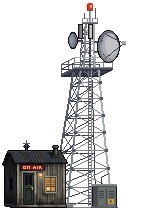
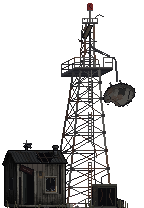
M5: Broadcast tower T1 + T2 (all five tiers done), sw v423

Changed region(s): [[0.0278, 0.0, 0.9444, 1.0]]

diff --git a/sw.js b/sw.js
@@ -15,7 +15,7 @@
  * edited CSS/JS) so returning users pick up the update instead of serving a
  * stale cached shell forever — the whole point of a version string here.
  */
-const CACHE_NAME = 'deadline-shell-v420';
+const CACHE_NAME = 'deadline-shell-v423';
 
 const APP_SHELL = [
     './',

diff --git a/Assets/Village/_source/broadcast-3q/scripts/bt208.py b/Assets/Village/_source/broadcast-3q/scripts/bt208.py
@@ -14,6 +14,21 @@ CX=90; PH=138; TOP=184
 def make(soldier=False, steel_only=False, station_only=False, tier=3, figure=None, front_rail=True, bands=False):
     im=Image.new('RGBA',(W,H),(0,0,0,0)); d=ImageDraw.Draw(im); P=im.load(); rnd=random.Random(11)
     L=lambda a,b,c,w=1: d.line([a,b],fill=c+(255,),width=w)
+    def dirty(px,box,seed,tint=(0.80,0.75,0.68),nblob=4,nrun=3):
+        # grime on one object (T2): a brown-grey tint, a few solid stains (dirt / rust, alternating) and short runs below them. No specks.
+        rr=random.Random(seed); x0_,y0_,x1_,y1_=box; ok=lambda x,y: 0<=x<W and 0<=y<H and px[x,y][3]==255 and sum(px[x,y][:3])>110
+        mix=lambda c,t,k: tuple(int(c[i]+(t[i]-c[i])*k) for i in range(3))+(255,)
+        for y in range(y0_,y1_+1):
+            for x in range(x0_,x1_+1):
+                if ok(x,y): c=px[x,y]; px[x,y]=(int(c[0]*tint[0]),int(c[1]*tint[1]),int(c[2]*tint[2]),255)
+        for i in range(nblob):
+            bx_,by_=rr.randint(x0_+1,x1_-1),rr.randint(y0_+1,y1_-1); br_=rr.randint(1,3); tone=(74,64,58) if i%2==0 else (120,82,62)
+            for y in range(by_-br_,by_+br_+1):
+                for x in range(bx_-br_,bx_+br_+1):
+                    if x0_<=x<=x1_ and y0_<=y<=y1_ and ok(x,y) and (x-bx_)**2+(y-by_)**2<=br_*br_: px[x,y]=mix(px[x,y],tone,0.55)
+            if i<nrun:
+                for k in range(br_+1,br_+rr.randint(3,6)):
+                    if y0_<=by_+k<=y1_ and ok(bx_,by_+k): px[bx_,by_+k]=mix(px[bx_,by_+k],(64,56,54),0.5)
     # painted bands (T5): dull aviation red / off-white, alternating by section, counted from the TOP so the top band is red
     RED=((158,76,62),(124,58,52),(84,44,46),(58,34,42)); WHT=((192,190,182),(150,150,148),(100,102,112),(64,66,78)); GALV=(ST_L,ST_M,ST_D,ST_DD)
     def pal(i,n,off=0):
@@ -56,8 +71,16 @@ def make(soldier=False, steel_only=False, station_only=False, tier=3, figure=Non
         # ---------- base lattice ----------
         fl,fr,bl,br,secs=lattice(0,PH,44,18,8,off=1)
         # ladder up the front face to the platform hatch
-        for hh in range(3,PH,3): d.line([CX-2,Y(hh),CX+1,Y(hh)],fill=ST_D+(255,))
-        d.line([CX-2,Y(PH),CX-2,Y(2)],fill=(100,104,116,255)); d.line([CX+1,Y(PH),CX+1,Y(2)],fill=(140,144,154,255))
+        LGAP=((46,64),(96,104)) if tier==1 else ()                  # T1: two stretches of the ladder have rotted away
+        ingap=lambda hh: any(a_<=hh<=b_ for a_,b_ in LGAP)
+        for hh in range(3,PH,3):
+            if not ingap(hh): d.line([CX-2,Y(hh),CX+1,Y(hh)],fill=ST_D+(255,))
+        segs=[]; top_=PH
+        for a_,b_ in sorted(LGAP,reverse=True): segs.append((top_,b_+1)); top_=a_-1
+        segs.append((top_,2))
+        for h1_,h0_ in segs:
+            d.line([CX-2,Y(h1_),CX-2,Y(h0_)],fill=(100,104,116,255)); d.line([CX+1,Y(h1_),CX+1,Y(h0_)],fill=(140,144,154,255))
+        if tier==1: d.line([(CX+1,Y(64)),(CX+5,Y(58)),(CX+6,Y(50))],fill=(100,104,116,255))      # one rail bent out and hanging
         legs(fl,fr,secs,2,off=1)
         for a,b in secs[1:]:                                    # gusset plates at the joints
             for x in (fl(a),fr(a)): d.rectangle([x-1,Y(a)-1,x+1,Y(a)+1],fill=ST_D+(255,))
@@ -102,8 +125,23 @@ def make(soldier=False, steel_only=False, station_only=False, tier=3, figure=Non
             im.alpha_composite(figure); d=ImageDraw.Draw(im); P=im.load()
         if front_rail:
             d.rectangle([dl,pf,dr,pf+2],fill=ST_D+(255,)); d.line([dl,pf,dr,pf],fill=ST_M+(255,)); d.line([dl,pf+2,dr,pf+2],fill=ST_DD+(255,))   # front fascia
-            for x in (dl,dl+9,dl+19,dl+29,dr): d.line([x,pf-RH,x,pf-1],fill=ST_M+(255,))
-            d.line([dl,pf-RH,dr,pf-RH],fill=ST_L+(255,)); d.line([dl,pf-RH+5,dr,pf-RH+5],fill=ST_M+(255,))
+            for x in ((dl,dl+9,dl+19,dl+29,dr) if tier>=2 else (dl,dl+19)): d.line([x,pf-RH,x,pf-1],fill=ST_M+(255,))
+            if tier==1:
+                d.line([dl,pf-RH,dl+19,pf-RH],fill=ST_L+(255,)); d.line([dl,pf-RH+5,dl+9,pf-RH+5],fill=ST_M+(255,))        # what is left of the rail
+                for x in (dl+29,dr): d.line([x,pf-RH,x,pf-1],fill=ST_M+(255,))                                               # the right-end section still stands
+                d.line([dl+29,pf-RH,dr,pf-RH],fill=ST_L+(255,)); d.line([dl+31,pf-RH+5,dr,pf-RH+5],fill=ST_M+(255,))
+                d.line([(dl+19,pf-RH),(dl+24,pf-RH+3),(dl+26,pf+6),(dl+26,pf+13)],fill=ST_M+(255,))                          # top rail torn loose, hanging below the deck
+            elif tier==2:
+                for (xa,xb_) in ((dl,dl+19),(dl+29,dr)):
+                    d.line([xa,pf-RH,xb_,pf-RH],fill=ST_L+(255,)); d.line([xa,pf-RH+5,xb_,pf-RH+5],fill=ST_M+(255,))
+                d.line([(dl+19,pf-RH+1),(dl+22,pf-RH+3),(dl+26,pf-RH+3),(dl+29,pf-RH+1)],fill=(150,128,92,255))          # rope across the gap
+                TP=(72,86,102); TPd=(52,64,80); TPl=(98,112,126)                                                          # tarp shelter, roped to the rail
+                d.polygon([(dl-1,pf-RH-2),(dl+13,pf-RH-3),(dl+15,pf-RH+4),(dl+14,pf+1),(dl+1,pf+2),(dl-2,pf-3)],fill=OUT+(255,))
+                d.polygon([(dl,pf-RH-1),(dl+12,pf-RH-2),(dl+14,pf-RH+4),(dl+13,pf),(dl+1,pf+1),(dl-1,pf-3)],fill=TP+(255,))
+                d.line([(dl+3,pf-RH),(dl+2,pf)],fill=TPd+(255,)); d.line([(dl+8,pf-RH-1),(dl+9,pf)],fill=TPd+(255,)); d.line([(dl+5,pf-RH),(dl+6,pf-4)],fill=TPl+(255,)); d.line([(dl+11,pf-RH),(dl+12,pf-5)],fill=TPl+(255,))
+                d.line([(dl,pf-RH+3),(dl+13,pf-RH+2)],fill=(150,128,92,255))
+            else:
+                d.line([dl,pf-RH,dr,pf-RH],fill=ST_L+(255,)); d.line([dl,pf-RH+5,dr,pf-RH+5],fill=ST_M+(255,))
         if tier>=4 and front_rail:                                  # floodlight on the platform's right end, at railing height just under the big dish, tilted 45 degrees outward (Jeremy 2026-11-24)
             ux,uy=dr+4,pf-7                                         # top corner of the turned housing
             d.line([dr,pf-5,ux-2,pf-5],fill=ST_D+(255,)); d.line([dr,pf-4,ux-3,pf-4],fill=ST_DD+(255,))   # bracket off the end post
@@ -115,10 +153,20 @@ def make(soldier=False, steel_only=False, station_only=False, tier=3, figure=Non
         for x in (CX-8,CX-3,CX+2,CX+7): d.line([x,ty-5,x,ty-2],fill=ST_M+(255,))
         d.line([CX-8,ty-5,CX+7,ty-5],fill=ST_L+(255,))
         d.rectangle([CX-1,Y(TOP+12),CX,ty-2],fill=ST_M+(255,)); d.line([CX,Y(TOP+12),CX,ty-2],fill=ST_L+(255,))
-        d.line([CX+5,Y(TOP+15),CX+5,ty-5],fill=ST_D+(255,)); d.line([CX-6,Y(TOP+10),CX-6,ty-5],fill=ST_D+(255,))
+        if tier==1:
+            d.line([CX+5,Y(TOP+6),CX+5,ty-5],fill=ST_D+(255,)); d.line([(CX+5,Y(TOP+6)),(CX+9,Y(TOP+9)),(CX+13,Y(TOP+7))],fill=ST_D+(255,))     # bent over
+            d.line([CX-6,Y(TOP+4),CX-6,ty-5],fill=ST_D+(255,))                                                                                   # snapped short
+        else:
+            d.line([CX+5,Y(TOP+15),CX+5,ty-5],fill=ST_D+(255,)); d.line([CX-6,Y(TOP+10),CX-6,ty-5],fill=ST_D+(255,))
         d.rectangle([CX-3,Y(TOP+13),CX+2,Y(TOP+13)],fill=ST_D+(255,))
         d.rectangle([CX-3,Y(TOP+19),CX+2,Y(TOP+14)],fill=(206,58,46,255)); d.rectangle([CX-2,Y(TOP+20),CX+1,Y(TOP+20)],fill=(206,58,46,255))
         d.rectangle([CX-3,Y(TOP+19),CX-3,Y(TOP+14)],fill=(146,38,36,255)); d.rectangle([CX,Y(TOP+18),CX+1,Y(TOP+16)],fill=(255,150,116,255)); d.point((CX+1,Y(TOP+18)),fill=(255,210,180,255))
+        if tier==1:                                                 # dead: a dark red lens, cracked, no hot spot
+            d.rectangle([CX-3,Y(TOP+19),CX+2,Y(TOP+14)],fill=(112,38,38,255)); d.rectangle([CX-2,Y(TOP+20),CX+1,Y(TOP+20)],fill=(112,38,38,255))
+            d.rectangle([CX-3,Y(TOP+19),CX-3,Y(TOP+14)],fill=(74,26,30,255)); d.line([(CX,Y(TOP+19)),(CX-1,Y(TOP+17)),(CX+1,Y(TOP+15))],fill=(46,18,24,255))
+        if tier==2:                                                 # running weak: a dull lens with one faint hot spot (stays ON at T2: Jeremy, it is the tower's signature)
+            d.rectangle([CX-3,Y(TOP+19),CX+2,Y(TOP+14)],fill=(150,46,42,255)); d.rectangle([CX-2,Y(TOP+20),CX+1,Y(TOP+20)],fill=(150,46,42,255))
+            d.rectangle([CX-3,Y(TOP+19),CX-3,Y(TOP+14)],fill=(104,32,34,255)); d.rectangle([CX,Y(TOP+17),CX+1,Y(TOP+16)],fill=(214,96,76,255))
         if tier>=5:                                                 # a pair of loudspeaker horns off the cap platform's left side, mouths facing left
             d.line([CX-13,ty-4,CX-8,ty-4],fill=ST_D+(255,)); d.line([CX-13,ty-10,CX-13,ty+4],fill=ST_DD+(255,))     # arm + yoke
             for cyh in (ty-8,ty+1):
@@ -128,25 +176,61 @@ def make(soldier=False, steel_only=False, station_only=False, tier=3, figure=Non
                 d.rectangle([mx,cyh-3,mx+1,cyh+3],fill=(182,186,194,255)); d.rectangle([mx,cyh-2,mx,cyh+2],fill=(58,60,72,255)); d.point((mx,cyh),fill=(34,34,44,255))
         # ---------- panel antennas ----------
         PA=(202,196,176); PAD=(134,132,126); hp=TOP-14
-        for x,c,cs in ((int(ufl(hp))-6,PAD,(100,100,98)),(CX-1,PA,PAD)):
+        if tier==1:
+            px0,py0=CX-1,Y(hp+12)
+            d.polygon([(px0-1,py0-1),(px0+3,py0),(px0-3,py0+13),(px0-7,py0+12)],fill=OUT+(255,))
+            d.polygon([(px0,py0),(px0+2,py0+1),(px0-4,py0+12),(px0-6,py0+11)],fill=(150,144,130,255)); d.line([(px0,py0),(px0-6,py0+11)],fill=(104,102,98,255))
+            dirty(P,(px0-7,py0,px0+3,py0+13),31,tint=(0.70,0.66,0.58),nblob=4,nrun=2)
+        for x,c,cs in (() if tier==1 else ((int(ufl(hp))-6,PAD,(100,100,98)),(CX-1,PA,PAD)) if tier>=3 else ((CX-1,(168,162,146),(118,116,110)),)):
             d.rectangle([x-1,Y(hp+13),x+3,Y(hp-1)],fill=OUT+(255,)); d.rectangle([x,Y(hp+12),x+2,Y(hp)],fill=c+(255,)); d.line([x,Y(hp+12),x,Y(hp)],fill=cs+(255,))
+            if tier==2: dirty(P,(x,Y(hp+12),x+2,Y(hp)),31,tint=(0.74,0.70,0.62),nblob=3,nrun=2)
         # ---------- BIG dish (front-right) ----------
         dh=TOP-23; ax_=int(ufr(dh)); cxd=ax_+14; ry=15; rx=10
-        d.line([ax_,Y(dh+5),cxd-2,Y(dh+5)],fill=ST_D+(255,),width=2); d.line([ax_,Y(dh-5),cxd-2,Y(dh-5)],fill=ST_D+(255,),width=2); d.line([ax_+3,Y(dh+5),ax_+3,Y(dh-5)],fill=ST_DD+(255,))
-        d.ellipse([cxd-rx-1,Y(dh+ry+1),cxd+rx+1,Y(dh-ry-1)],fill=OUT+(255,))
-        d.ellipse([cxd-rx,Y(dh+ry),cxd+rx,Y(dh-ry)],fill=(112,116,126,255))          # rim / back edge
-        d.ellipse([cxd-rx+2,Y(dh+ry-1),cxd+rx,Y(dh-ry+1)],fill=(146,150,158,255))     # bowl, shade side
-        d.ellipse([cxd-rx+4,Y(dh+ry-2),cxd+rx,Y(dh-ry+3)],fill=(168,172,178,255))
-        d.ellipse([cxd-rx+7,Y(dh+ry-4),cxd+rx-1,Y(dh-ry+7)],fill=(192,194,198,255))   # lit part
-        d.arc([cxd-rx+2,Y(dh+ry-1),cxd+rx,Y(dh-ry+1)],190,350,fill=(96,100,112,255))
+        lay=Image.new('RGBA',(W,H),(0,0,0,0)); q=ImageDraw.Draw(lay)
+        q.line([ax_,Y(dh+5),cxd-2,Y(dh+5)],fill=ST_D+(255,),width=2); q.line([ax_,Y(dh-5),cxd-2,Y(dh-5)],fill=ST_D+(255,),width=2); q.line([ax_+3,Y(dh+5),ax_+3,Y(dh-5)],fill=ST_DD+(255,))
+        q.ellipse([cxd-rx-1,Y(dh+ry+1),cxd+rx+1,Y(dh-ry-1)],fill=OUT+(255,))
+        q.ellipse([cxd-rx,Y(dh+ry),cxd+rx,Y(dh-ry)],fill=(112,116,126,255))          # rim / back edge
+        q.ellipse([cxd-rx+2,Y(dh+ry-1),cxd+rx,Y(dh-ry+1)],fill=(146,150,158,255))     # bowl, shade side
+        q.ellipse([cxd-rx+4,Y(dh+ry-2),cxd+rx,Y(dh-ry+3)],fill=(168,172,178,255))
+        q.ellipse([cxd-rx+7,Y(dh+ry-4),cxd+rx-1,Y(dh-ry+7)],fill=(192,194,198,255))   # lit part
+        q.arc([cxd-rx+2,Y(dh+ry-1),cxd+rx,Y(dh-ry+1)],190,350,fill=(96,100,112,255))
         for (ex,ey) in ((cxd-2,Y(dh+ry-3)),(cxd-3,Y(dh-ry+3)),(cxd+rx-2,Y(dh-3))):
-            d.line([ex,ey,cxd+rx+5,Y(dh+3)],fill=ST_DD+(255,))
-        d.rectangle([cxd+rx+4,Y(dh+5),cxd+rx+7,Y(dh+2)],fill=ST_L+(255,)); d.rectangle([cxd+rx+4,Y(dh+2),cxd+rx+7,Y(dh+2)],fill=ST_D+(255,))
-        for q in ((cxd-4,Y(dh-9)),(cxd-3,Y(dh-10)),(cxd-5,Y(dh-8)),(cxd+1,Y(dh-12)),(cxd-6,Y(dh+6))): d.point(q,fill=RUST+(255,))
+            q.line([ex,ey,cxd+rx+5,Y(dh+3)],fill=ST_DD+(255,))
+        q.rectangle([cxd+rx+4,Y(dh+5),cxd+rx+7,Y(dh+2)],fill=ST_L+(255,)); q.rectangle([cxd+rx+4,Y(dh+2),cxd+rx+7,Y(dh+2)],fill=ST_D+(255,))
+        for pt0 in ((cxd-4,Y(dh-9)),(cxd-3,Y(dh-10)),(cxd-5,Y(dh-8)),(cxd+1,Y(dh-12)),(cxd-6,Y(dh+6))): q.point(pt0,fill=RUST+(255,))
+        if tier==1:
+            q.rectangle([cxd+rx+3,Y(dh+6),cxd+rx+8,Y(dh+1)],fill=(0,0,0,0))                                   # feed horn torn off
+            q.polygon([(cxd+rx+2,Y(dh-4)),(cxd+4,Y(dh-9)),(cxd+6,Y(dh-ry-2)),(cxd+rx+2,Y(dh-ry-2))],fill=(0,0,0,0))   # a bite out of the lower rim
+            q.line([(cxd+4,Y(dh-9)),(cxd+6,Y(dh-ry+1))],fill=OUT+(255,)); q.line([(cxd+4,Y(dh-9)),(cxd+rx,Y(dh-5))],fill=OUT+(255,))
+            q.polygon([(cxd-5,Y(dh+8)),(cxd+1,Y(dh+5)),(cxd-1,Y(dh-1)),(cxd-6,Y(dh+1))],fill=(84,86,96,255)); q.line([(cxd-5,Y(dh+8)),(cxd-6,Y(dh+1))],fill=(56,58,70,255))   # dent
+            dirty(lay.load(),(cxd-rx,Y(dh+ry),cxd+rx,Y(dh-ry)),37,tint=(0.70,0.66,0.60),nblob=13,nrun=9)
+            # torn off its mount (Jeremy 2026-11-24): it hangs over the right side of the platform, in the air, from a thick black
+            # cable that runs from the middle of the mast over the hand rail. Turned 65 degrees about its bracket, then moved to the hang point.
+            HANG=(dr+4,pf+14)                                         # well below the deck (Jeremy: it may hang behind the school, players see it in the building window)
+            lay=lay.rotate(-75,resample=Image.NEAREST,center=(ax_,Y(dh)),translate=(HANG[0]-ax_,HANG[1]-Y(dh)))
+        if tier==2:                                                 # patched with a scrap sheet, rust runs, and hanging about 12 degrees off true
+            q.polygon([(cxd-6,Y(dh+4)),(cxd+1,Y(dh+6)),(cxd+2,Y(dh-2)),(cxd-5,Y(dh-3))],fill=(120,112,104,255)); q.line([(cxd-6,Y(dh+4)),(cxd+1,Y(dh+6))],fill=(150,142,130,255))
+            for pt in ((cxd-5,Y(dh+3)),(cxd+1,Y(dh+5)),(cxd+1,Y(dh-1)),(cxd-4,Y(dh-2))): q.point(pt,fill=(60,56,58,255))
+            for (rx_,ry_,ln) in ((cxd-2,Y(dh+12),3),(cxd+5,Y(dh+1),2),(cxd-6,Y(dh-5),3)): q.line([rx_,ry_,rx_,ry_+ln],fill=(128,88,72,255))
+            dirty(lay.load(),(cxd-rx,Y(dh+ry),cxd+rx,Y(dh-ry)),37,tint=(0.80,0.76,0.70),nblob=9,nrun=6)
+            lay=lay.rotate(-12,resample=Image.NEAREST,center=(ax_+2,Y(dh)))
+        im.alpha_composite(lay); d=ImageDraw.Draw(im); P=im.load()
+        if tier==1:
+            CAB=(74,74,84); CABL=(94,94,106)                         # charcoal (Jeremy's pick over pure black and near-black); about (47,47,54) / (60,60,68) after the T1 dull pass, a little darker than the steel
+            run1=[(CX,Y(dh)),(CX+10,Y(dh)+6),(dr-3,pf-RH-1)]             # from the middle of the mast, taut, to the hand rail
+            run2=[(dr-3,pf-RH-1),(dr+1,pf-RH),(dr+3,pf-RH+4),(HANG[0],HANG[1])]   # bent over the rail, then straight down to the dish's bracket
+            d.line(run1,fill=CAB+(255,),width=2); d.line(run2,fill=CAB+(255,),width=2)
+            d.line([(x_,y_-1) for (x_,y_) in run1],fill=CABL+(255,)); d.line([(x_+1,y_) for (x_,y_) in run2[2:]],fill=CABL+(255,))   # a lighter edge so it reads as a round cable
+            d.rectangle([CX-1,Y(dh)-1,CX+1,Y(dh)+1],fill=CAB+(255,))                          # the knot round the mast
+            for hh_ in (dh+5,dh-5): d.line([ax_,Y(hh_),ax_+2,Y(hh_)],fill=ST_DD+(255,))        # stubs of the old mount
         # ---------- drum dish (shaded left side) ----------
         d2=TOP-17; lx=int(ubl(d2)[0])-12
-        d.line([lx+8,Y(d2),lx+13,Y(d2)],fill=ST_DD+(255,),width=2)
-        d.ellipse([lx-1,Y(d2+8),lx+8,Y(d2-8)],fill=OUT+(255,)); d.ellipse([lx,Y(d2+7),lx+7,Y(d2-7)],fill=(96,100,112,255)); d.ellipse([lx,Y(d2+6),lx+5,Y(d2-6)],fill=(126,130,140,255)); d.ellipse([lx+1,Y(d2+4),lx+3,Y(d2-3)],fill=(148,152,160,255))
+        if tier==1:
+            d.line([lx+10,Y(d2),lx+13,Y(d2)],fill=ST_DD+(255,),width=2); d.point((lx+9,Y(d2)-1),fill=ST_DD+(255,))
+        else:
+            d.line([lx+8,Y(d2),lx+13,Y(d2)],fill=ST_DD+(255,),width=2)
+            d.ellipse([lx-1,Y(d2+8),lx+8,Y(d2-8)],fill=OUT+(255,)); d.ellipse([lx,Y(d2+7),lx+7,Y(d2-7)],fill=(96,100,112,255)); d.ellipse([lx,Y(d2+6),lx+5,Y(d2-6)],fill=(126,130,140,255)); d.ellipse([lx+1,Y(d2+4),lx+3,Y(d2-3)],fill=(148,152,160,255))
+        if tier==2: dirty(P,(lx,Y(d2+7),lx+7,Y(d2-7)),41,tint=(0.78,0.74,0.68),nblob=4,nrun=3)
         # ---------- equipment cabinet at the tower foot + conduit ----------
         ex0,ex1,eh=97,115,20
         d.rectangle([ex0-1,Y(eh)-1,ex1+1,G],fill=OUT+(255,)); d.rectangle([ex0,Y(eh),ex1,G-1],fill=(104,110,108,255))
@@ -157,6 +241,54 @@ def make(soldier=False, steel_only=False, station_only=False, tier=3, figure=Non
         d.rectangle([ex0+11,G-8,ex0+16,G-4],fill=(190,160,60,255)); d.point((ex0+13,G-7),fill=(40,36,30,255)); d.point((ex0+14,G-6),fill=(40,36,30,255)); d.point((ex0+13,G-5),fill=(40,36,30,255))
         d.line([ex0-6,G-1,ex1+2,G],fill=COND+(255,)); d.rectangle([ex0-6,G,ex1+2,G],fill=COND+(255,))
         d.line([ex0+4,Y(eh)-4,ex0+4,Y(eh+10)],fill=ST_DD+(255,)); d.line([ex0+4,Y(eh+10),int(fr(eh+14)),Y(eh+14)],fill=ST_DD+(255,))
+        if tier==1:                                                 # gutted: both doors gone, wires hanging out
+            d.rectangle([ex0+1,Y(eh)+1,ex1-1,G-2],fill=(18,18,24,255)); d.line([ex0+9,Y(eh)+1,ex0+9,G-2],fill=(52,54,58,255))
+            d.line([(ex0+4,Y(eh)+2),(ex0+5,Y(eh)+8),(ex0+3,Y(eh)+14)],fill=(96,60,52,255)); d.line([(ex0+13,Y(eh)+2),(ex0+12,Y(eh)+9),(ex0+15,G-3)],fill=(70,70,84,255))
+            d.polygon([(ex1+2,G-9),(ex1+8,G-7),(ex1+8,G),(ex1+2,G)],fill=OUT+(255,)); d.polygon([(ex1+3,G-8),(ex1+7,G-6),(ex1+7,G-1),(ex1+3,G-1)],fill=(88,92,92,255))      # a door lying against the side
+            dirty(P,(ex0-5,Y(eh)-3,ex1+8,G-1),43,tint=(0.70,0.66,0.58),nblob=12,nrun=8)
+        if tier==2:
+            d.rectangle([ex0+10,Y(eh)+1,ex0+12,G-2],fill=(22,22,28,255)); d.line([ex0+13,Y(eh)+1,ex0+13,G-2],fill=(132,138,134,255))     # right door ajar
+            d.rectangle([ex0+11,G-8,ex0+16,G-4],fill=(104,110,108,255))                                                                    # warning label gone
+            dirty(P,(ex0-5,Y(eh)-3,ex1+1,G-1),43,tint=(0.78,0.74,0.66),nblob=10,nrun=7)
+            rm=random.Random(47); hmud=3                                                                                                    # mud splashed up the bottom: a solid band with an uneven top
+            for xx in range(ex0-4,ex1+1):
+                hmud=max(2,min(6,hmud+rm.choice((-1,0,0,1))))
+                for yy in range(G-hmud,G):
+                    if P[xx,yy][3]==255 and sum(P[xx,yy][:3])>110: P[xx,yy]=tuple(int(v*0.70) for v in P[xx,yy][:3])+(255,)
+            for (rx_,ry_,ln) in ((ex0+2,Y(eh)+2,7),(ex0+6,Y(eh)+11,6),(ex0+15,Y(eh)+3,9),(ex0+17,Y(eh)+12,5)): d.line([rx_,ry_,rx_,ry_+ln],fill=(110,74,60,255))
+            # fire barrel beside the tower's left leg: the squatters' outside light
+            bx0=71; d.rectangle([bx0-1,G-12,bx0+8,G],fill=OUT+(255,)); d.rectangle([bx0,G-11,bx0+7,G-1],fill=(70,56,52,255)); d.line([bx0,G-11,bx0,G-1],fill=(48,40,42,255)); d.line([bx0+6,G-10,bx0+6,G-1],fill=(92,72,62,255))
+            d.line([bx0,G-8,bx0+7,G-8],fill=(44,38,40,255)); d.line([bx0,G-4,bx0+7,G-4],fill=(44,38,40,255))
+            for pt in ((bx0+2,G-6),(bx0+5,G-6),(bx0+3,G-2)): d.point(pt,fill=(240,150,60,255))
+            d.rectangle([bx0+1,G-12,bx0+6,G-12],fill=(226,120,48,255)); d.rectangle([bx0+2,G-14,bx0+4,G-13],fill=(244,170,70,255)); d.point((bx0+3,G-15),fill=(255,214,120,255)); d.point((bx0+5,G-13),fill=(226,120,48,255))
+    if tier<=2 and not station_only:
+        # dirty, rusty steel (Jeremy 2026-11-24): a brown-grey grime tint on all the steel, then rust in solid PATCHES
+        # (joints first, heavier low down), then dark runs under the patches. No single-pixel specks.
+        STEEL={ST_L:0,ST_M:1,ST_D:2,ST_DD:3,(140,144,154):0,(100,104,116):1}
+        GRIME=[(142,140,134),(108,106,104),(74,74,80),(52,50,60)]
+        RUSTS=[(150,100,74),(122,80,62),(88,58,52),(62,44,46)]
+        r2=random.Random(23); P=im.load(); cls={}
+        for y in range(H):
+            for x in range(W):
+                c=P[x,y][:3]
+                if P[x,y][3]==255 and c in STEEL: cls[(x,y)]=STEEL[c]; P[x,y]=GRIME[STEEL[c]]+(255,)
+        cents=[]
+        for _ in range(64 if tier==2 else 90):
+            y=r2.randint(Y(TOP)+2,G-4); bias=(y-Y(TOP))/(G-Y(TOP))              # more rust lower down
+            if r2.random()>0.45+0.55*bias: continue
+            x=r2.randint(40,118); cents.append((x,y,r2.randint(3,6)))
+        rusted=set()
+        for (cx_,cy_,rr) in cents:
+            blobs=[(cx_,cy_,rr),(cx_+r2.randint(-3,3),cy_+r2.randint(1,5),max(2,rr-1))]
+            for (bx_,by_,br_) in blobs:
+                for y in range(by_-br_,by_+br_+1):
+                    for x in range(bx_-br_,bx_+br_+1):
+                        if (x,y) in cls and (x-bx_)**2+((y-by_)*0.8)**2<=br_*br_: rusted.add((x,y))
+        for (x,y) in rusted: P[x,y]=RUSTS[cls[(x,y)]]+(255,)
+        for (cx_,cy_,rr) in cents[::2]:                                          # runs: a few px straight down from a patch, darker
+            x=cx_+r2.randint(-1,1)
+            for k in range(rr,rr+r2.randint(3,7)):
+                if (x,cy_+k) in cls and (x,cy_+k) not in rusted: P[x,cy_+k]=RUSTS[min(3,cls[(x,cy_+k)]+1)]+(255,)
     if steel_only: return im
     # ---------- station (in front, left) ----------
     x0,x1=15,63; sdw=12; wt=44; fnd=3; rh=11
@@ -203,6 +335,31 @@ def make(soldier=False, steel_only=False, station_only=False, tier=3, figure=Non
                 edge=(i in (3,10)) or hh in (16,31)
                 P[x0-i,round(sideY(hh,i))]=((60,64,72) if edge else (96,100,106))+(255,)
         for (i,hh) in ((4,18),(9,18),(4,29),(9,29)): P[x0-i,round(sideY(hh,i))]=(150,154,160,255)
+    if tier==1:
+        GL=(20,20,28)
+        # front window smashed: black opening, shards left in the frame, the centre bar snapped
+        d.rectangle([wx,Y(29),wx+8,Y(17)],fill=GL+(255,))
+        for pt in ((wx,Y(28)),(wx+1,Y(29)),(wx+8,Y(27)),(wx+7,Y(29)),(wx,Y(18)),(wx+1,Y(17)),(wx+2,Y(17)),(wx+8,Y(18)),(wx+6,Y(17))): d.point(pt,fill=(92,104,116,255))
+        d.line([(wx+4,Y(29)),(wx+4,Y(25))],fill=(74,66,60,255)); d.line([(wx+4,Y(19)),(wx+5,Y(17))],fill=(74,66,60,255))
+        # side window smashed too
+        for i in range(5,9):
+            for hh in range(18,30): P[x0-i,round(sideY(hh,i))]=GL+(255,)
+        P[x0-5,round(sideY(29,5))]=(80,92,104,255); P[x0-8,round(sideY(18,8))]=(80,92,104,255)
+        # the door hangs open on one hinge: a black doorway, the leaf swung in at the left
+        d.rectangle([ax,Y(35),ax+10,Y(fnd)],fill=(14,14,20,255))
+        d.polygon([(ax,Y(35)),(ax+3,Y(33)),(ax+3,Y(fnd+2)),(ax,Y(fnd))],fill=(46,54,52,255)); d.line([(ax+3,Y(33)),(ax+3,Y(fnd+2))],fill=(30,36,36,255))
+        # two boards gone from the wall, the gaps black
+        d.rectangle([x1-6,Y(wt-2),x1-5,Y(14)],fill=(18,16,22,255)); d.rectangle([x0+2,Y(30),x0+3,Y(fnd+1)],fill=(18,16,22,255))
+    if tier==2:
+        # front window: dark glass, one candle on the sill, a plank nailed across the top
+        d.rectangle([wx,Y(29),wx+8,Y(17)],fill=(34,32,40,255)); d.line([wx+4,Y(29),wx+4,Y(17)],fill=(70,62,56,255)); d.line([wx,Y(21),wx+8,Y(21)],fill=(70,62,56,255))
+        d.rectangle([wx+5,Y(20),wx+8,Y(17)],fill=(112,78,46,255)); d.rectangle([wx+6,Y(19),wx+7,Y(17)],fill=(206,150,80,255)); d.point((wx+6,Y(20)),fill=(255,220,150,255)); d.point((wx+6,Y(18)),fill=(236,226,200,255))
+        d.polygon([(wx-2,Y(28)),(wx+10,Y(26)),(wx+10,Y(24)),(wx-2,Y(26))],fill=(104,84,62,255)); d.line([(wx-2,Y(28)),(wx+10,Y(26))],fill=(132,108,80,255)); d.point((wx-1,Y(27)),fill=(40,36,34,255)); d.point((wx+9,Y(25)),fill=(40,36,34,255))
+        # side window: three planks, each at its own angle
+        for (h0,h1,cc) in ((29,27,(88,72,56)),(24,25,(98,80,60)),(19,21,(82,66,52))):
+            for i in range(3,11):
+                hh=round(h0+(h1-h0)*(i-3)/7)
+                for k in (0,1): P[x0-i,round(sideY(hh-k,i))]=(cc if k==0 else tuple(int(v*0.78) for v in cc))+(255,)
     # ON AIR sign (lit box) over the door
     sx,sy=18,Y(44)+1; d.rectangle([sx,sy,sx+24,sy+6],fill=OUT+(255,)); d.rectangle([sx+1,sy+1,sx+23,sy+5],fill=(120,28,26,255))
     LET={'O':["111","101","101","101","111"],'N':["101","111","111","111","101"],'A':["111","101","111","101","101"],'I':["1","1","1","1","1"],'R':["110","101","110","101","101"]}
@@ -225,8 +382,19 @@ def make(soldier=False, steel_only=False, station_only=False, tier=3, figure=Non
             for c,v in enumerate(rowp):
                 if v=='1': P[x+c,sy+2+r]=(255,198,172,255)
         x+=len(L3[ch][0])+1
+    if tier==1:                                                     # sign broken: the box hangs by one corner, half its face gone
+        for yy in range(sy,sy+7):
+            for xx in range(sx,sx+25): P[xx,yy]=(WFd if (xx-x0)%5==0 else WF)+(255,)                # bare wall where it hung
+        d.polygon([(sx,sy),(sx+13,sy+5),(sx+12,sy+11),(sx-1,sy+6)],fill=OUT+(255,)); d.polygon([(sx+1,sy+1),(sx+12,sy+6),(sx+11,sy+10),(sx,sy+5)],fill=(54,26,28,255))
+        d.line([(sx+3,sy+4),(sx+5,sy+5)],fill=(104,78,74,255)); d.line([(sx+7,sy+6),(sx+9,sy+7)],fill=(104,78,74,255))
+    if tier==2:                                                     # sign dead: a dull panel, letters barely readable
+        for yy in range(sy+1,sy+6):
+            for xx in range(sx+1,sx+24):
+                lit=P[xx,yy][:3]==(255,198,172); P[xx,yy]=((112,84,80) if lit else (60,28,30))+(255,)
     # wall lamp between door and window
     lx_=37; d.rectangle([lx_,Y(36),lx_+2,Y(35)],fill=ST_DD+(255,)); d.rectangle([lx_,Y(34),lx_+2,Y(32)],fill=(250,214,150,255)); d.point((lx_+1,Y(33)),fill=(255,240,200,255))
+    if tier<=2:                                                     # lamp dead
+        d.rectangle([lx_,Y(34),lx_+2,Y(32)],fill=(52,50,56,255)); d.point((lx_+1,Y(33)),fill=(74,72,78,255))
     # roof: corrugated metal, side-gable; front slope + gable end
     RF=(78,82,94); RFd=(58,62,74); RFl=(98,102,114)
     ex0_,ex1_=x0-2,x1+1; back=7
@@ -241,9 +409,26 @@ def make(soldier=False, steel_only=False, station_only=False, tier=3, figure=Non
         for y in range(int(yb-gh),yb):
             if P[x,y][3]==0 or i>2: P[x,y]=WSd+(255,)
     d.line([(x0-sdw-2,round(sideY(wt,sdw))-1),(ex0_-back,Y(wt)-1-rh)],fill=RFd+(255,))
+    if tier==1:
+        hole=[(34,Y(wt)-rh+1),(46,Y(wt)-rh),(50,Y(wt)-5),(47,Y(wt)-1),(38,Y(wt)-2),(35,Y(wt)-5)]
+        d.polygon(hole,fill=(12,12,18,255))
+        for xb_ in (40,46):                                          # rafters: same lean as the roof's own edges (7px back over 11 up)
+            d.line([(xb_,Y(wt)-2),(xb_-5,Y(wt)-rh+1)],fill=(70,56,48,255))
+        d.line([(36,Y(wt)-6),(49,Y(wt)-6)],fill=(54,44,40,255))      # batten
+        for pt in ((34,Y(wt)-rh+2),(50,Y(wt)-4),(46,Y(wt)-1),(38,Y(wt)-1)): d.point(pt,fill=RFl+(255,))    # torn sheet edges
+    if tier==2:
+        # tarp roped over the right end of the roof
+        TP=(72,86,102); TPd=(52,64,80); TPl=(98,112,126)
+        d.polygon([(40,Y(wt)-rh),(56,Y(wt)-rh-1),(60,Y(wt)-2),(59,Y(wt)+2),(44,Y(wt)+1),(43,Y(wt)-3)],fill=TP+(255,))
+        d.line([(46,Y(wt)-rh+1),(48,Y(wt))],fill=TPd+(255,)); d.line([(53,Y(wt)-rh),(55,Y(wt)+1)],fill=TPd+(255,)); d.line([(50,Y(wt)-rh+1),(51,Y(wt)-3)],fill=TPl+(255,))
+        d.line([(40,Y(wt)-rh+3),(59,Y(wt)-5)],fill=(150,128,92,255)); d.line([(44,Y(wt)+1),(59,Y(wt)+2)],fill=TPd+(255,))
     # roof vent + a small antenna + feed cable to the tower
-    d.rectangle([52,Y(wt+rh+5),54,Y(wt+rh-3)],fill=ST_D+(255,)); d.rectangle([51,Y(wt+rh+6),55,Y(wt+rh+5)],fill=ST_M+(255,))
-    d.line([24,Y(wt+rh+12),24,Y(wt+rh-1)],fill=ST_D+(255,)); d.line([21,Y(wt+rh+9),27,Y(wt+rh+9)],fill=ST_D+(255,)); d.line([22,Y(wt+rh+6),26,Y(wt+rh+6)],fill=ST_D+(255,))
+    if tier==1:
+        d.rectangle([52,Y(wt+rh),54,Y(wt+rh-3)],fill=ST_D+(255,))
+        d.line([(24,Y(wt+rh-1)),(24,Y(wt+rh+5)),(29,Y(wt+rh+9))],fill=ST_D+(255,)); d.line([(25,Y(wt+rh+7)),(28,Y(wt+rh+5))],fill=ST_D+(255,))
+    else:
+        d.rectangle([52,Y(wt+rh+5),54,Y(wt+rh-3)],fill=ST_D+(255,)); d.rectangle([51,Y(wt+rh+6),55,Y(wt+rh+5)],fill=ST_M+(255,))
+        d.line([24,Y(wt+rh+12),24,Y(wt+rh-1)],fill=ST_D+(255,)); d.line([21,Y(wt+rh+9),27,Y(wt+rh+9)],fill=ST_D+(255,)); d.line([22,Y(wt+rh+6),26,Y(wt+rh+6)],fill=ST_D+(255,))
     if not station_only:
         d.line([(57,Y(wt+rh-2)),(CX-20,Y(wt+rh+6)),(int(CX-22+0.094*(wt+rh+14)),Y(wt+rh+14))],fill=(40,40,50,255))
     return im

diff --git a/Assets/Village/_source/broadcast-3q/scripts/finish.py b/Assets/Village/_source/broadcast-3q/scripts/finish.py
@@ -32,7 +32,7 @@ def glow(im,cx,cy,R,col,k0,cap=150,shape=None,opaque_only=False):
     return im
 def station_for(tier):
     st=station_pl()
-    if tier>=4:                                                   # T4 additions drawn in code, laid over the PixelLab station
+    if tier!=3:                                                   # tier changes drawn in code, laid over the PixelLab station
         a=C.station_code(3).load(); bim=C.station_code(tier); b=bim.load(); P=st.load()
         for y in range(H):
             for x in range(W):
@@ -77,7 +77,37 @@ def build(soldier=False,station=None,tier=3,figure=None,front_rail=True,lights=T
             P=im.load()
             for yy in range(fy0-3,fy0+1): P[fx0,yy]=(84,88,102,255)         # the whip runs 3px higher to carry it
             fl_=clean(Image.open(PC+'flag_r1.png')); im.alpha_composite(fl_,(fx0+1,fy0-3))
+    if tier==1:                                                    # dead weeds and rubble along the foot (in front of everything)
+        import random
+        rw=random.Random(5); P=im.load()
+        for (xc,n) in ((6,3),(15,2),(36,3),(58,4),(66,3),(84,4),(92,2),(119,4),(124,2)):
+            for k in range(n):
+                x=xc+k*2+rw.randint(-1,1); hgt=rw.randint(3,8); lean=rw.choice((-1,0,0,1)); col=rw.choice(((92,88,56),(74,76,50),(110,98,66)))
+                for t in range(hgt):
+                    xx=x+(lean*t)//3
+                    if 0<=xx<W: P[xx,H-1-t]=(col if t<hgt-1 else tuple(min(255,v+24) for v in col))+(255,)
+        for (xr,wr) in ((44,5),(74,6),(100,4)):                                                             # low rubble heaps
+            for i in range(wr):
+                hh=1+(1 if 0<i<wr-1 else 0)+(1 if i==wr//2 else 0)
+                for t in range(hh): P[xr+i,H-1-t]=((96,92,88) if t==hh-1 else (64,62,64))+(255,)
+    if tier<=2:                                                    # dull pass (before any light): colour and brightness pulled down, light sources left alone
+        sat,br={2:(0.80,0.80),1:(0.62,0.64)}[tier]
+        keepers=[(B.CX-3,Y(B.TOP+20),B.CX+2,Y(B.TOP+13)),(70,H-17,80,H-1),(51,Y(21),56,Y(16))]   # beacon lens, fire barrel, candle
+        P=im.load()
+        for y in range(H):
+            for x in range(W):
+                r,g,b_,a_=P[x,y]
+                if not a_ or any(x0<=x<=x1 and y0<=y<=y1 for (x0,y0,x1,y1) in keepers): continue
+                gr=0.299*r+0.587*g+0.114*b_
+                P[x,y]=(int((gr+(r-gr)*sat)*br),int((gr+(g-gr)*sat)*br),int((gr+(b_-gr)*sat)*br),255)
     if not lights: return im
+    if tier==2:
+        glow(im,B.CX-0.5,Y(B.TOP+17),4,(214,80,62),0.30,cap=70)                       # the weak beacon
+        glow(im,74.5,H-13,9,(244,160,70),0.34,cap=90,shape=0.9)                        # fire barrel
+        glow(im,74.5,H-8,13,(244,160,70),0.20,opaque_only=True)
+        glow(im,53.5,Y(18),5,(255,214,150),0.22,opaque_only=True)                      # the candle on the sill
+        return im
+    if tier==1: return im
     keep=im.copy()
     glow(im,B.CX-0.5,Y(B.TOP+17),7,(240,84,60),0.55,cap=120)
     bx=keep.load(); P=im.load()

diff --git a/Assets/Village/_source/broadcast-3q/scripts/README.md b/Assets/Village/_source/broadcast-3q/scripts/README.md
@@ -27,3 +27,19 @@ Everything that must show on a phone sits in the top 67 px of the art (beacon, d
 - Two red obstruction lights halfway up the front legs, a second wire coil round the legs, two more Gym sandbag stacks, a yard light on the station roof's right end.
 - The guard under the door lamp: PixelLab `generate-image-v2` at 32x48 (`../pieces/guard_pixellab_32x48.png`, pick 12 of 36), `resize` to 21x32.
 - No barbed wire on the station roof (Jeremy had it removed).
+
+## 2026-11-24 late: T2 final (all code, no PixelLab)
+- `broadcast_t2_final_144x208.png` (Jeremy approved). `finish.build(tier=2)`.
+- Top: beacon weak (dull lens, small bloom); big dish patched with a scrap sheet and turned 12 degrees (drawn on its own layer, then rotated about its mount); one panel antenna; a tarp shelter roped to the rail's left end; one rail section gone with a rope across.
+- Steel: a brown-grey grime tint, rust in solid PATCHES (heavier low down) with dark runs under them. Jeremy asked for dirtier / rustier; single-pixel specks avoided.
+- The two dishes, the panel antenna and the electrical box each got `dirty()`: tint + a few solid stains + short runs; the box also has a mud band along its bottom.
+- Foot: sign and door lamp dead, candle on the front sill under one plank, side window under three planks at different angles, a tarp roped over the roof's right end, a fire barrel, the box's right door ajar.
+- Dull pass in `finish.py` (colour 0.80, brightness 0.80), light sources left out, lights last.
+
+## 2026-11-24 late: T1 final (all code, no PixelLab)
+- `broadcast_t1_final_144x208.png` (Jeremy approved). `finish.build(tier=1)`.
+- The big dish is torn off its mount and hangs in the air below the platform's right side, from a charcoal cable tied round the middle of the mast, bent over the hand rail (the right-end rail section is left standing for it). Jeremy: it may hang behind the school, players see it in the building window; he tried pure black (too dark) and near-black, and chose CHARCOAL. Dented, a bite out of the rim, feed horn gone, turned 75 degrees about its bracket then moved to the hang point.
+- Beacon dead (dark cracked lens, no glow). The beacon stays ON (weak) at T2: Jeremy, it is the tower's signature.
+- Small dish gone (bracket stub), last panel antenna hanging by one bolt, one whip bent over, the middle of the front rail torn out and hanging, two stretches of the ladder missing, the heaviest grime + rust patches.
+- Station: both windows smashed, the door hanging open on a black doorway, the sign box hanging by one corner, a roof hole with rafters that follow the roof's lean, two wall boards gone. Electrical box gutted, a door lying against it. Dead weeds + rubble (drawn in `finish.py`, in front of everything).
+- Dull pass colour 0.62, brightness 0.64 (about the Clock tower T1's); no light pass at all.
